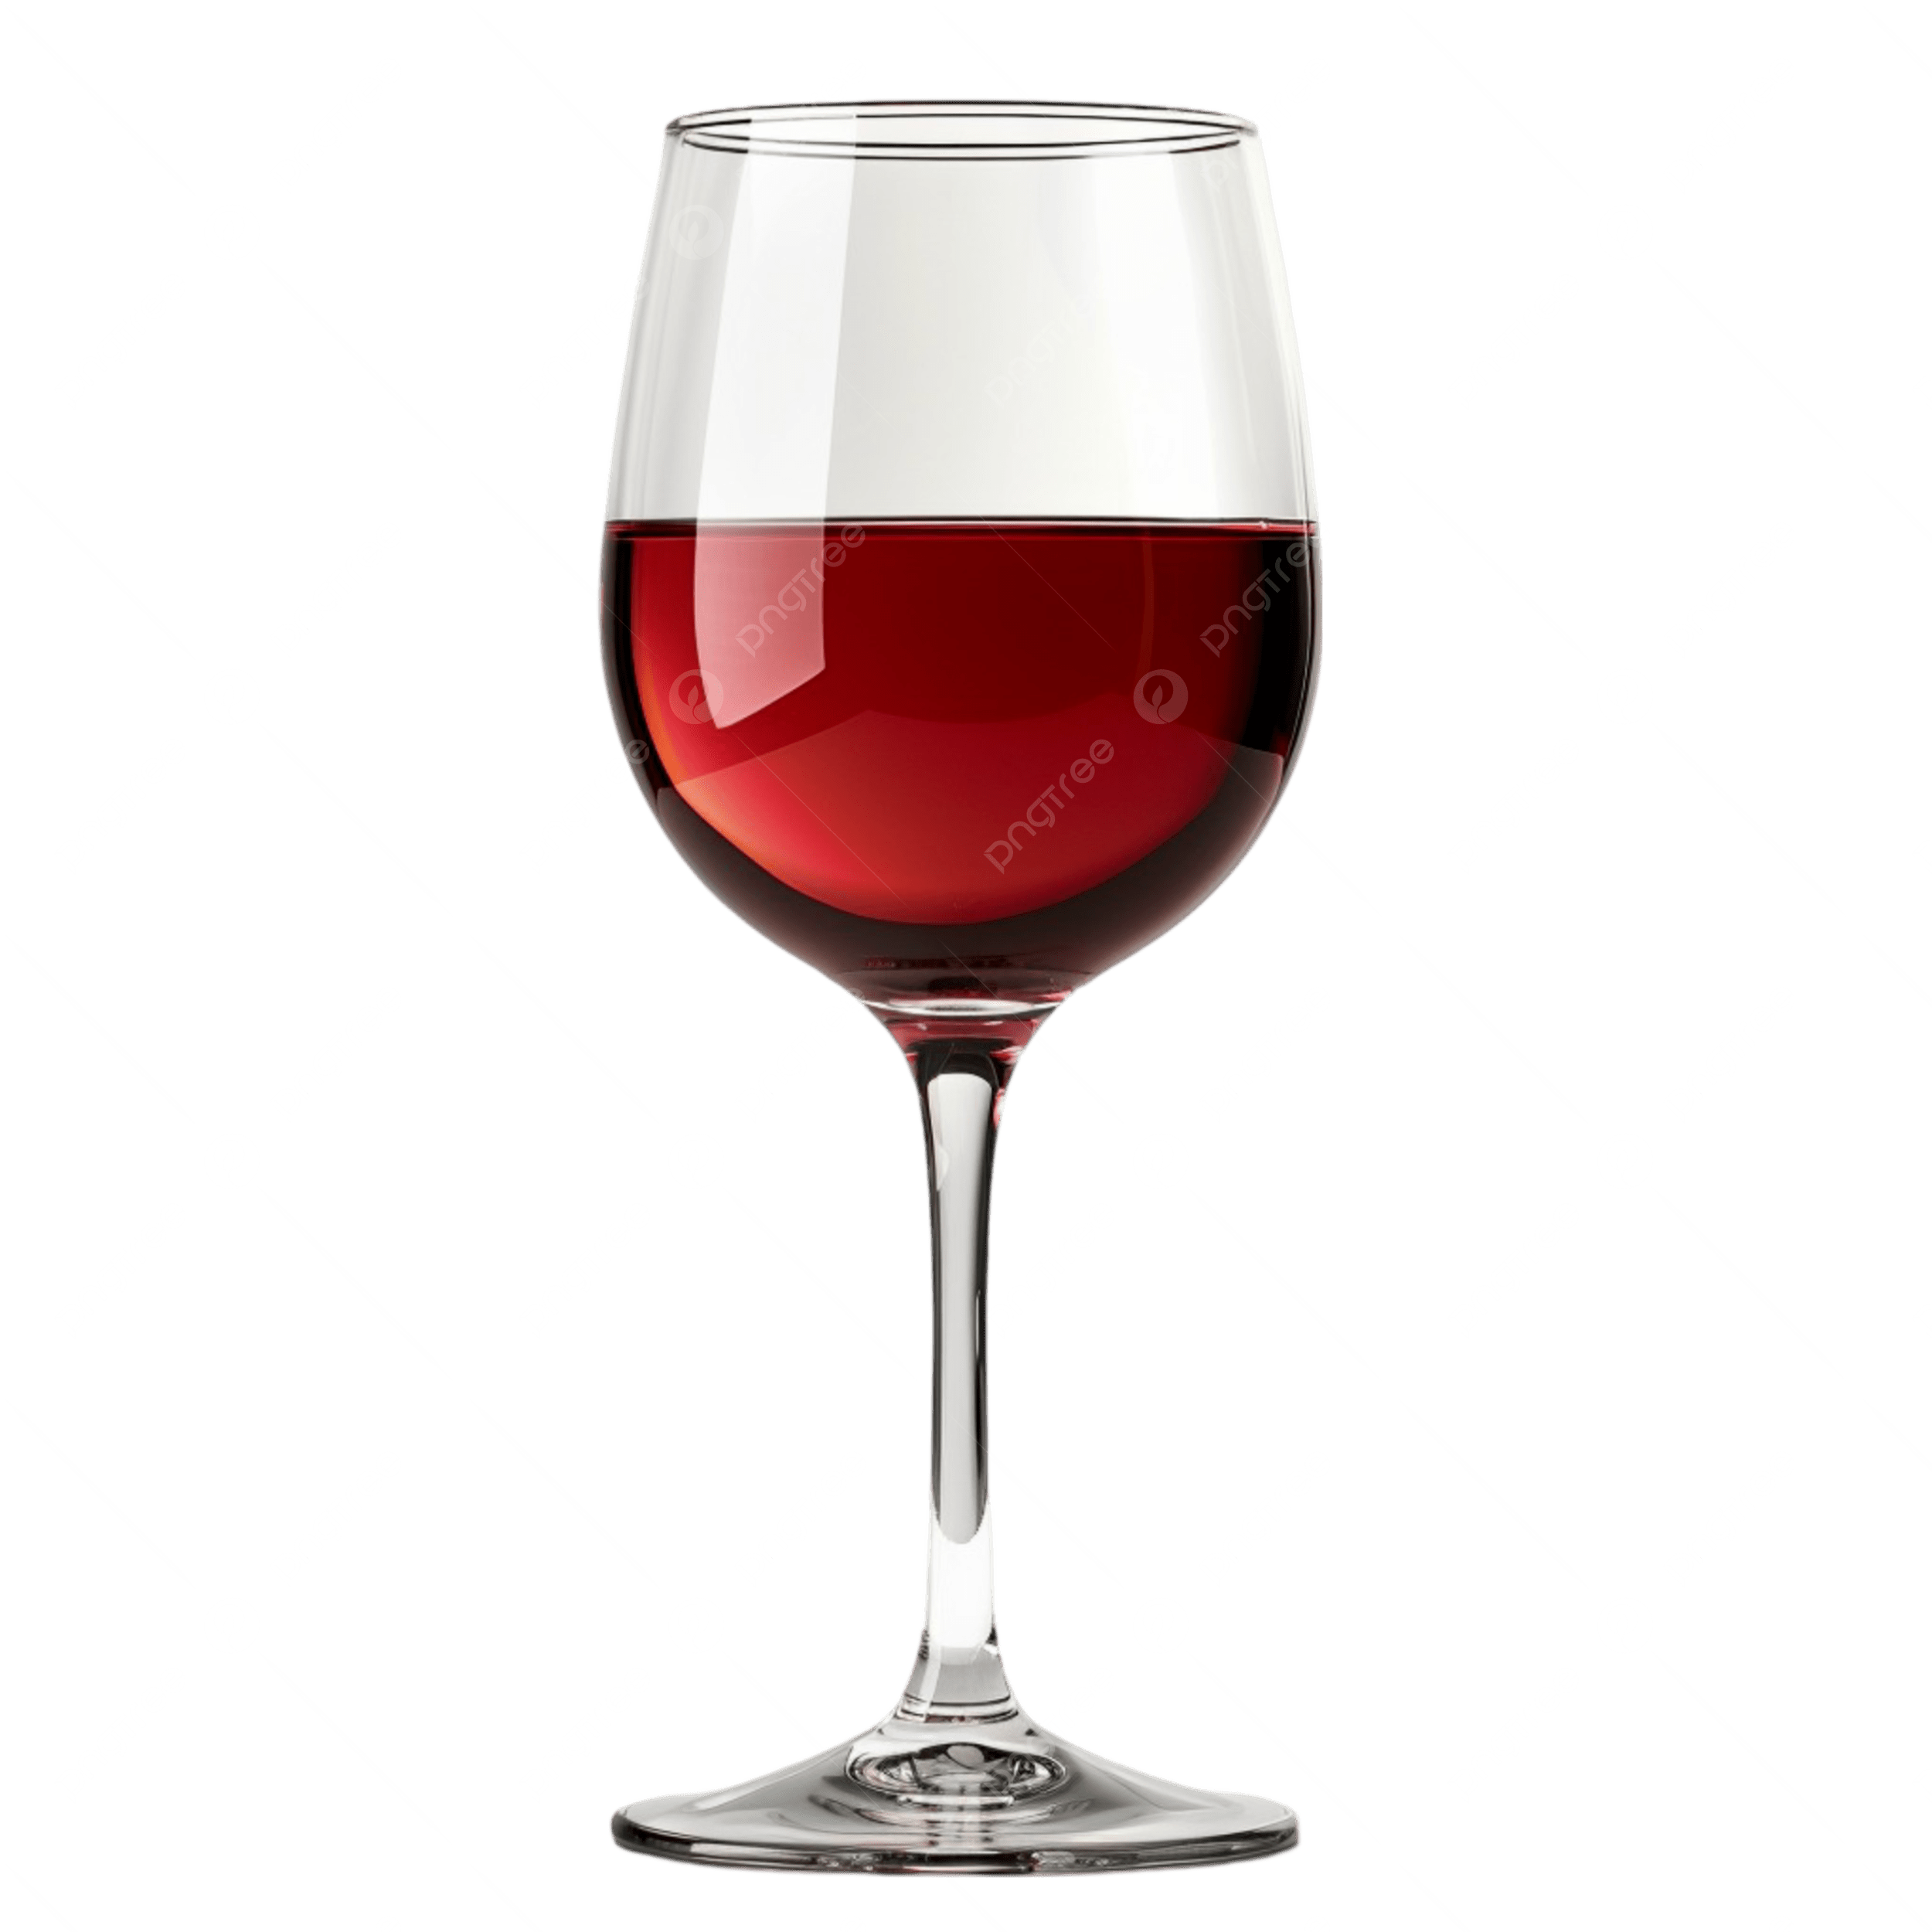
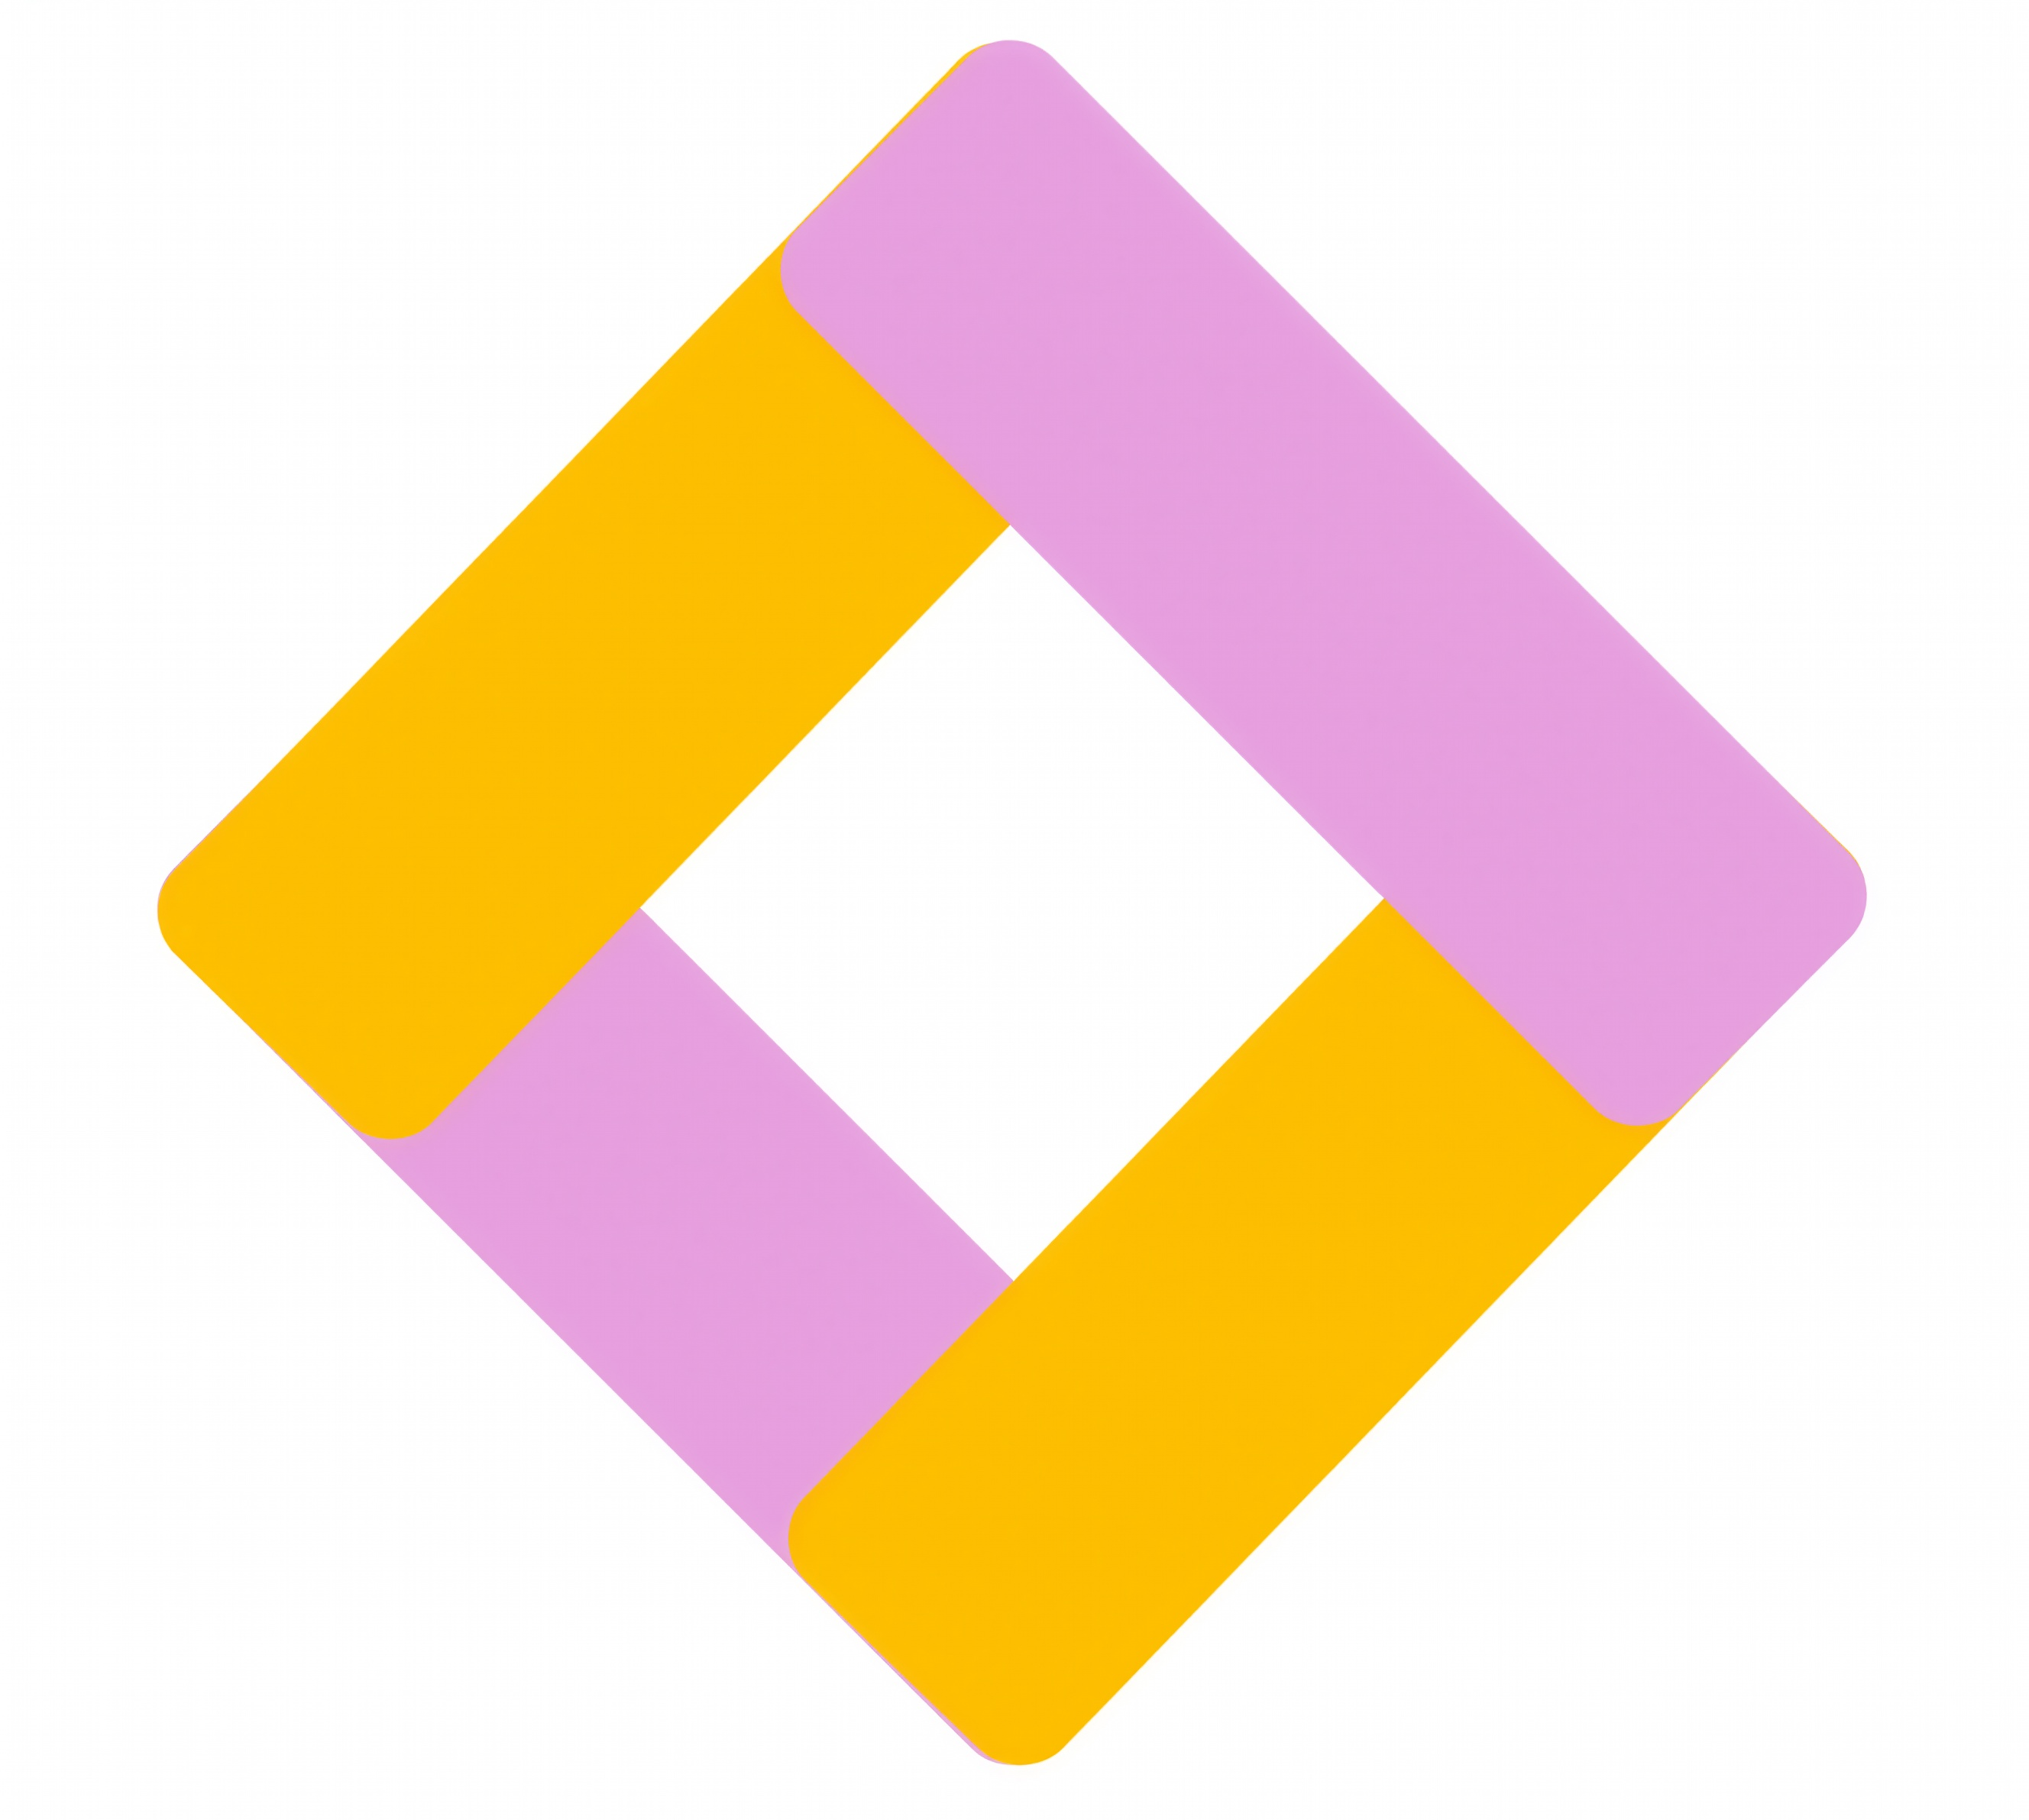
making final changes 9a

diff --git a/docs/index.md b/docs/index.md
@@ -5,6 +5,20 @@ hide:
 ---
 <link rel="stylesheet" href="https://cdnjs.cloudflare.com/ajax/libs/font-awesome/6.5.0/css/all.min.css">
 
+<div class="custom-tab-navbar-container">
+  <div class="tab-navbar-wrapper">
+    
+  <a href="#" class="tab-item">Capabilities</a>
+  
+  <a href="#" class="tab-item active-tab">Performance</a>
+  
+  <a href="#" class="tab-item">Safety</a>
+  
+  <a href="#" class="tab-item">Download</a>
+    
+  </div>
+</div>
+
 <!-- <div class="custom-top-banner">
   <div class="banner-center-content">
     <span>MA-PaPSP got accepted to ICLR 2026!</span>